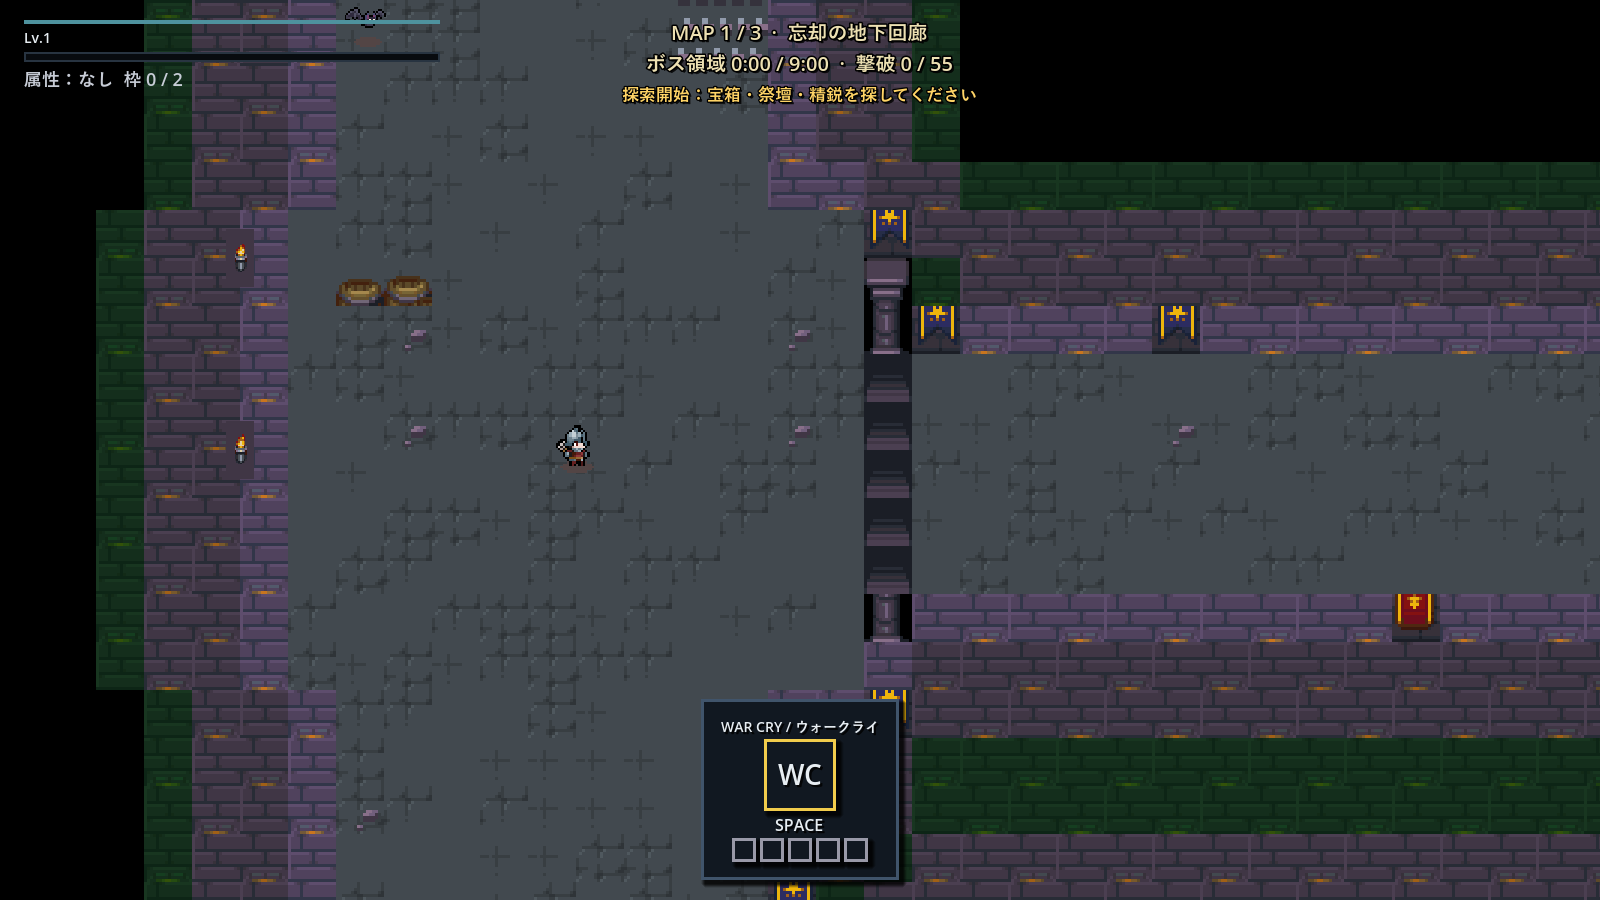
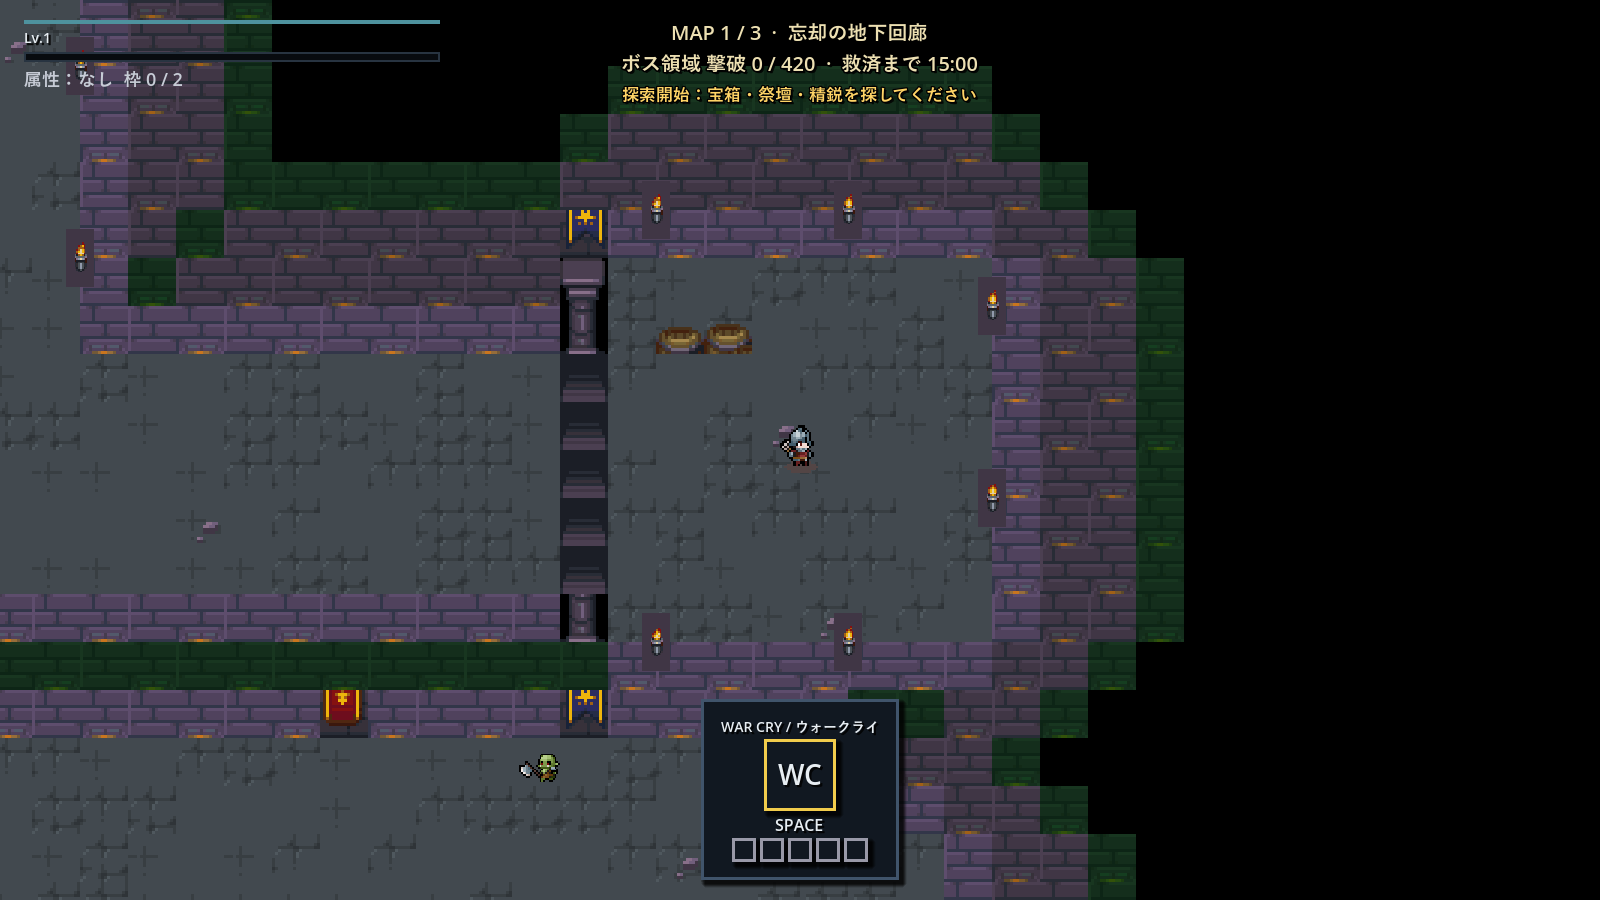
fix: make map boss progression exploration-driven

diff --git a/game_specification.md b/game_specification.md
@@ -37,7 +37,7 @@
   → MAP 1探索(自動攻撃、自然湧き、Elite、配置宝箱/祭壇)
        → 敵撃破XPでLevel Up → Attribute 3択
        → 宝箱をE/Xで開封 → 装備/回復/Skill/Attribute報酬
-       → 時間+撃破条件達成後、最深部Boss領域をE/Xで開始
+       → 撃破条件達成後、最深部Boss領域をE/Xで開始（長期探索時だけ救済解放）
        → Boss撃破 → 確定装備+Boss宝箱Skill → MAP 2
   → MAP 2 → MAP 3 Final Boss
   → RUN CLEARリザルト(Retry / Title)
@@ -85,8 +85,8 @@ Developer Test Lab、回帰テスト、`codex/room-system-backup-20260825`から
   1〜2体、通常のステータスから1.8〜2.2倍に強化した個体が出現する
 - 表示スケールは通常個体よりやや大きく(1.6倍程度)し、視覚的に区別できるようにする
 - 各精鋭には進行時間に応じて1〜3個の特殊属性をランダム付与し、頭上へ属性名を表示する
-- 全滅させると現在のElement Buildに応じた属性/研鑽4択から1個を選択+メタ通貨ボーナスを獲得する。
-  各精鋭の死亡時には別途、装備の地面ドロップ判定を行う(詳細は23章)
+- MAP通常進行では精鋭ごとの高XP+確定地面装備を報酬にし、戦闘を止める属性4択/メタ通貨Modalは出さない。
+  旧ROOM/Test互換経路の報酬だけは回帰用に維持する(詳細は23章)。
 
 ## 6. レベルアップ(Attribute 3択+小回復)
 
@@ -104,8 +104,9 @@ Developer Test Lab、回帰テスト、`codex/room-system-backup-20260825`から
 
 ## 7. ボス
 
-- 現行通常ゲームは各MAPの探索時間+撃破数を満たすと最深部Boss領域を解放し、E/Xで既存Bossを1体生成する。
-  MAP1/2/3の固定条件は540秒+55体、600秒+75体、660秒+95体。Player火力追従は行わない。
+- 現行通常ゲームは各MAPの累計撃破数を満たすと最深部Boss領域を解放し、E/Xで既存Bossを1体生成する。
+  MAP1/2/3の固定撃破条件は420/650/900体。固定Timer待ちにはせず、極端に弱いBuildの詰み防止だけ
+  15/16/17分で救済解放する。いずれもBoss Areaへの到達+Interactが必要で、Player火力追従は行わない。
   旧ROOM 4の倍数EncounterとDeveloper Test Lab用明示Spawn APIは維持する。
 - `data/bosses/` に10体登録済み: Black Knight_A/B/C, Demon_A〜E, Flame Golem, Minotaur
 - ROOM 4から順にBlack Knight_A、Minotaur、Black Knight_B、Demon_B、Black Knight_C、
@@ -2586,13 +2587,15 @@ Element ModifierのGameplay/VFX/Masteryは`ElementCombatSystem`と`FusionCombatR
 
 ### 34.2 MAP固定曲線
 
-| MAP | 寸法 / 部屋 | Boss解放 | 通常敵HP / Damage | 同時上限 | Boss HP / Damage |
+| MAP | 寸法 / 部屋 | 目安 / Boss解放（救済） | 通常敵HP / Damage | 同時上限 | Boss HP / Damage |
 |---|---|---|---|---|---|
-| 1 忘却の地下回廊 | 78×78 / 10 | 540秒+55体 | ×2.50 / ×1.00 | 32 | ×2.2 / ×0.62 |
-| 2 紫晶の深層 | 86×86 / 11 | 600秒+75体 | ×3.25 / ×1.10 | 40 | ×3.8 / ×0.72 |
-| 3 終焉の炉心 | 94×94 / 12 | 660秒+95体 | ×4.00 / ×1.20 | 48 | ×5.8 / ×0.82 |
+| 1 忘却の地下回廊 | 78×78 / 10 | 約10分 / 420体（15分） | ×2.50 / ×1.00 | 32 | ×2.2 / ×0.62 |
+| 2 紫晶の深層 | 86×86 / 11 | 約11分 / 650体（16分） | ×3.25 / ×1.10 | 40 | ×3.8 / ×0.72 |
+| 3 終焉の炉心 | 94×94 / 12 | 約12分 / 900体（17分） | ×4.00 / ×1.20 | 48 | ×5.8 / ×0.82 |
 
 - 難易度はMAP番号・MAP内時間だけで決まり、Player火力、Attribute/Fusion/装備所持数から逆算しない。
+- Boss領域は固定Timer待ちでは解放しない。通常は各MAPの累計撃破数で封印を解き、さらに最遠部のBoss Areaへ到達してE/Xを押す。
+  拡散力のない極端なBuildでもRunが詰まらないよう15/16/17分だけ救済解放とし、HUDには撃破進捗と救済までの残り時間を表示する。
 - MAP1開始Poolの平均HPは初期Soldier通常攻撃換算で約8.0Hit。後続MAPは想定Build成長を受けても
   通常敵8〜15Hit、強敵15〜25Hitを基準にする固定倍率であり、RuntimeのPlayer能力追従補正は行わない。
 - `WaveSpawner`はPlayerから220〜480pxの床に1〜3体ずつ自然生成する。MAP内間隔は1.35→0.62秒へ変化し、
@@ -2617,9 +2620,10 @@ Element ModifierのGameplay/VFX/Masteryは`ElementCombatSystem`と`FusionCombatR
   壁装飾/檻/結晶候補は全矩形走査ではなく床近傍/Room外周/床Cacheから列挙する。
 - MAP HUDは2行進捗と案内文を別領域へ置く。Boss戦中はMAP進捗を一時非表示にしてBoss名/HPを優先し、終了後に復帰する。
 - `--map-runtime-check`は実Game SceneでAttribute、3MAP、各Boss、Boss宝箱、Skill、Run Clearを短縮完走する。
-  MAP2/3遷移の2026-08-25 headless最終実測は最大slice 21.188/29.566ms（最適化前53.698/71.546ms）。
-- `--map-combat-check`は4倍速の通常移動Input/近接Hitboxで、MAP1の自然撃破55/55を論理168.3秒で確認する。
-- `--map-soak-check`は20倍速で論理1820.2秒、自然Spawn、通常宝箱12、Elite完了経路、3Boss、
+  MAP2/3遷移の2026-08-25 headless最終実測は最大slice 21.842/24.338ms（最適化前53.698/71.546ms）。
+- `--map-combat-check`は4倍速・無成長Soldierの通常移動Input/実近接Hitboxで、MAP1の自然撃破421/420を
+  論理612.2秒で確認する。固定待機ではなく通常戦闘だけで約10分の解放条件へ届く。
+- `--map-soak-check`は20倍速で論理2001.5秒、自然Spawn、通常宝箱12、Elite完了経路、3Boss、
   全遷移、敵上限32/40/48、Run Clearを確認する。
 - `--map-gui-capture`はRTX 4060 / Vulkan Forward MobileでMAP開始、Boss領域、Boss戦を
   `artifacts/map_exploration_*.png`へ保存する。Debugger gameplay error、暗転残留、HUD重なりは0件。

diff --git a/docs/codex_handoff.md b/docs/codex_handoff.md
@@ -6,6 +6,8 @@
 - MAPごとに自然湧き、配置宝箱4、Attribute/生命祭壇、Elite、最深部Boss領域を使用する。
 - 通常敵HP固定倍率はMAP1/2/3 = 2.50/3.25/4.00（MAP1開始時の初期Soldier換算平均約8.0Hit）。
 - 同時通常敵上限は32/40/48。Player周囲への補充間隔は維持し、密集時の長時間負荷を抑える。
+- Boss領域は固定Timer待ちではなく撃破420/650/900体で解放し、最遠部でE/Xを押して開始する。
+  極端に弱いBuildの詰み防止だけ15/16/17分で救済解放する。
 - 通常MAP開始時に、ROOM/Test Lab用Disabled状態からWaveSpawner/EliteRoomManagerを明示復帰する。
 - XP Level UpはAttribute 3択。Skillは宝箱/Boss宝箱のみ。Equipment/Inventory/Equip/Merge、COMBO、全10FusionをMAP間で維持。
 
@@ -26,9 +28,9 @@
 ## 確認結果
 
 - `map_entry_input_check`: GAME START→通常ゲーム→Soldier→MAP1をInputMap操作だけで通過 PASS。
-- `--map-combat-check`: 通常移動Input/実近接HitboxでMAP1自然撃破55/55、論理168.3秒 PASS。
+- `--map-combat-check`: 無成長Soldierの通常移動Input/実近接HitboxでMAP1自然撃破421/420、論理612.2秒 PASS。
 - `--map-runtime-check`: MAP1→2→3、Attribute、3Boss、Boss宝箱、Skill、Run Clear PASS。
-- `--map-soak-check`: 論理1820.2秒、自然Spawn、通常宝箱12、Elite完了、敵上限32/40/48、3Boss、全遷移 PASS。
+- `--map-soak-check`: 論理2001.5秒、自然Spawn、通常宝箱12、Elite完了、敵上限32/40/48、3Boss、全遷移 PASS。
 - Vulkan RTX 4060 / Forward Mobile: MAP開始、Boss領域、Boss戦 PASS。画像は`artifacts/map_exploration_*.png`。
 - 既存Equipment/Merge/Fusion 10種/Concept/ROOM COMBO/ROOM遷移回帰はPASS。
 
